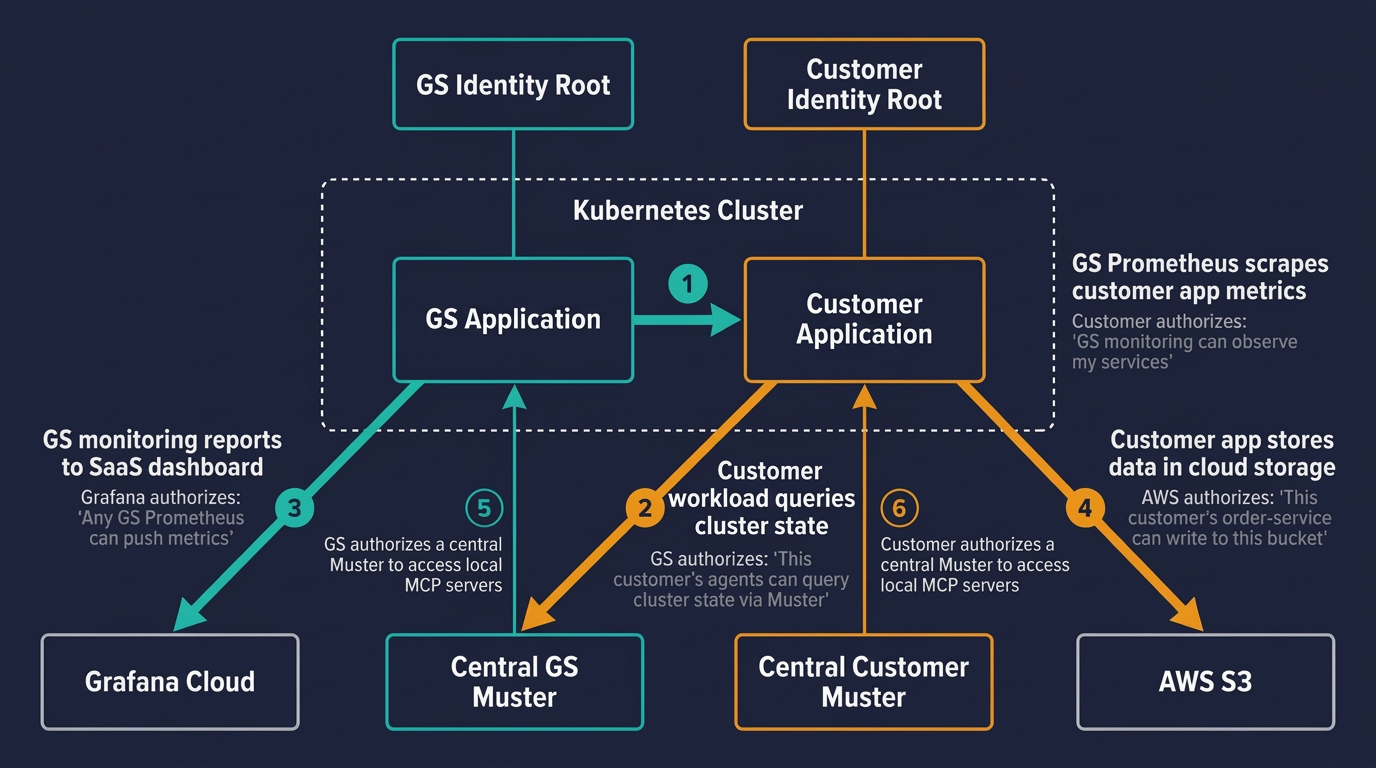
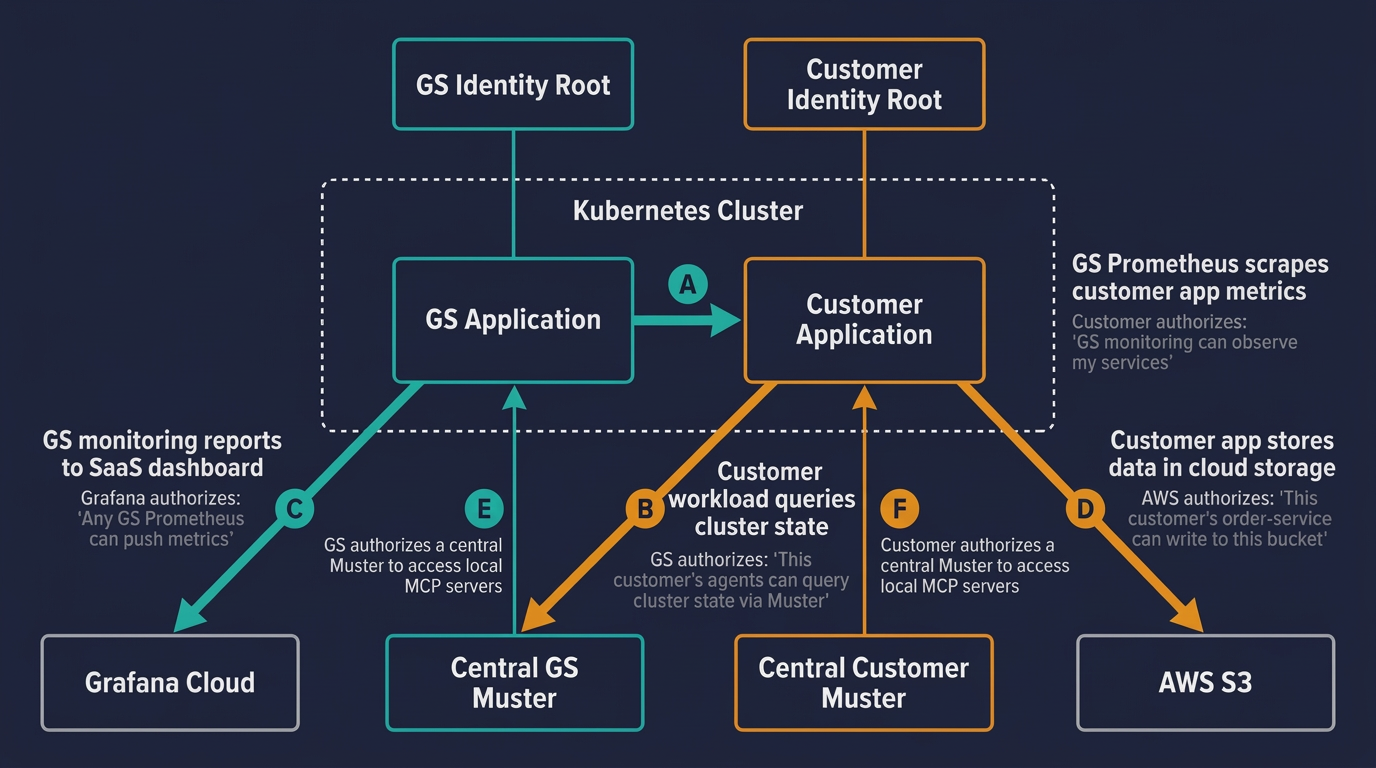
Feedback - change use cases to letters

diff --git a/workload-identity/README.md b/workload-identity/README.md
@@ -55,21 +55,21 @@ Credentials must be made available to the identity holder and the application mu
 
 The following use cases drive the design. Each combines a relying party (who validates), an identity holder (who proves identity), and a scope.
 
-1. **External service authenticates any Giant Swarm application globally.** An external API trusts "any Giant Swarm net-exporter" regardless of which customer cluster it runs in.
-2. **External service authenticates Giant Swarm applications scoped to a customer or region.** A customer's S3 bucket trusts "Giant Swarm Falco in Customer X's clusters in Europe only."
-3. **Customer workload authenticates any Giant Swarm application.** A customer application allows "any Giant Swarm Prometheus" to scrape it.
-4. **Customer workload authenticates Giant Swarm applications locally.** A customer application allows "Giant Swarm Prometheus in this cluster" to scrape it.
-5. **Giant Swarm service authenticates a customer application broadly.** A Giant Swarm API trusts "any Customer X Muster."
-6. **Giant Swarm service authenticates specific customer application instances.** A Giant Swarm API trusts "Customer X's Jenkins in this cluster."
+- **(A)** **External service authenticates any Giant Swarm application globally.** An external API trusts "any Giant Swarm net-exporter" regardless of which customer cluster it runs in.
+- **(B)** **External service authenticates Giant Swarm applications scoped to a customer or region.** A customer's S3 bucket trusts "Giant Swarm Falco in Customer X's clusters in Europe only."
+- **(C)** **Customer workload authenticates any Giant Swarm application.** A customer application allows "any Giant Swarm Prometheus" to scrape it.
+- **(D)** **Customer workload authenticates Giant Swarm applications locally.** A customer application allows "Giant Swarm Prometheus in this cluster" to scrape it.
+- **(E)** **Giant Swarm service authenticates a customer application broadly.** A Giant Swarm API trusts "any Customer X Muster."
+- **(F)** **Giant Swarm service authenticates specific customer application instances.** A Giant Swarm API trusts "Customer X's Jenkins in this cluster."
 
 Bonus: connections where both sides have federated trust in the other can optionally be secured with mTLS.
 
 ### Discussion use cases:
 
-7. **External service authenticates any instance of any customer application.** An external service trusts "any Jenkins belonging to any Giant Swarm customer".
-Implementing (7) presents significant challenges with the current feature set of the proposed solution. Let's discuss if this is important.
+- **(G)** **External service authenticates any instance of any customer application.** An external service trusts "any Jenkins belonging to any Giant Swarm customer".
+Implementing (G) presents significant challenges with the current feature set of the proposed solution. Let's discuss if this is important.
 
-8. **Offline management of air-gapped clusters.** It *is* possible to run a local trust domain behind an air gap. It _may_ be possible to maintain a *nested* branch of a *global* trust domain behind an air gap by updating intermediate key material out of band, or very infrequently, but that was not examined for this RFC.
+- **(H)** **Offline management of air-gapped clusters.** It *is* possible to run a local trust domain behind an air gap. It _may_ be possible to maintain a *nested* branch of a *global* trust domain behind an air gap by updating intermediate key material out of band, or very infrequently, but that was not examined for this RFC.
 
 ### Use case dimensions
 
@@ -104,7 +104,7 @@ Implementing (7) presents significant challenges with the current feature set of
 
 - **External validation must also be scoped and available.** Discovery endpoints / trust bundles for validation must be reliably reachable by external verifiers (AWS STS, Azure Entra ID).
 - **Identity path design leaks information.** Paths encoding internal architecture (application names, customer names, regions) are visible to relying parties. The naming scheme must balance expressiveness with information exposure.
-- **Global vs. local identity.** Some Giant Swarm workloads need a global identity (e.g. Mimir reporting to Grafana Cloud), while others need a customer-local identity (e.g. Alloy scraping endpoints that must survive customer offboarding). A workload may need both, and this need may change during its lifetime.
+- **Global vs. local identity.** Some Giant Swarm workloads may need multiple identities for differeny use cases. For example, a workload may need a global identity (e.g. Mimir reporting to Grafana Cloud), while others need a customer-local identity (e.g. Alloy scraping endpoints that must survive customer offboarding). A workload may need both, and this need may change during its lifetime.
 - **Customer lifecycle edge cases.** Departure-and-return, organizational splits, and acquisitions all affect trust domain naming and federation state.
 - **Customers access MCs.** Customers would have access to key material stored in a management cluster.
 
@@ -131,12 +131,12 @@ The CNCF-graduated projects have extensive support from community and commercial
 
 **Note:** A SPIFFE trust domain is an arbitrary string, and need not be a valid DNS domain at all. However, there are slight benefits if the trust domain does resolve to the location of the trust bundle for the trust domain.
 
-Constraints 1–2 and 4–7 require isolated, customer-owned trust domains. But use cases 1–2 require a single trust anchor that external services can federate with without per-customer configuration. No single trust domain satisfies both, so:
+Constraints 1–2 and 4–7 require isolated, customer-owned trust domains. But use cases A–B require a single trust anchor that external services can federate with without per-customer configuration. No single trust domain satisfies both, so:
 
 1. **Giant Swarm Platform identity plane** — One trust domain (`spiffe://wid.giantswarm.com`) for all Giant Swarm platform workloads across all regions and customers. Controlled entirely by Giant Swarm.
 2. **Customer identity plane** — One trust domain per customer (`spiffe://wid.customer-x.com`), running in the customer's infrastructure with customer-held CA keys.
 
-Federation between planes enables cross-domain authentication (use cases 3–6).
+Federation between planes enables cross-domain authentication (use cases C–F).
 
 ### Company plane topology
 
@@ -228,7 +228,7 @@ Regional and WC intermediate certs likely need longer lifetimes for semi-airgapp
 
 7. **Air gap?** I think it makes sense to assume we need this eventually. Are there airgap-specific use cases?
 
-8. **Support for external --> any customer authentication.** Use case 7 describes the possibility for an external service to authenticate "any instance of one|any application belonging to any Giant Swarm customer". This is currently very difficult to implement. The correct solution would involve identities signed by both Giant Swarm and the customer. This is different than dual identities, this is a single identity which is signed by two parties, which is not yet supported by SPIRE. So, how important is this use case?
+8. **Support for external --> any customer authentication.** Use case G describes the possibility for an external service to authenticate "any instance of one|any application belonging to any Giant Swarm customer". This is currently very difficult to implement. The correct solution would involve identities signed by both Giant Swarm and the customer. This is different than dual identities, this is a single identity which is signed by two parties, which is not yet supported by SPIRE. So, how important is this use case?
 
 9. **Customer SPIRE root placement.** The customer root needs to live somewhere highly available. Options include a dedicated WC in the customer's primary region, co-location in the first MC, a lightweight non-K8s host, or customer-provided infrastructure. The dedicated WC is the current recommendation, but introduces a single-region placement for a cross-region dependency.
 
